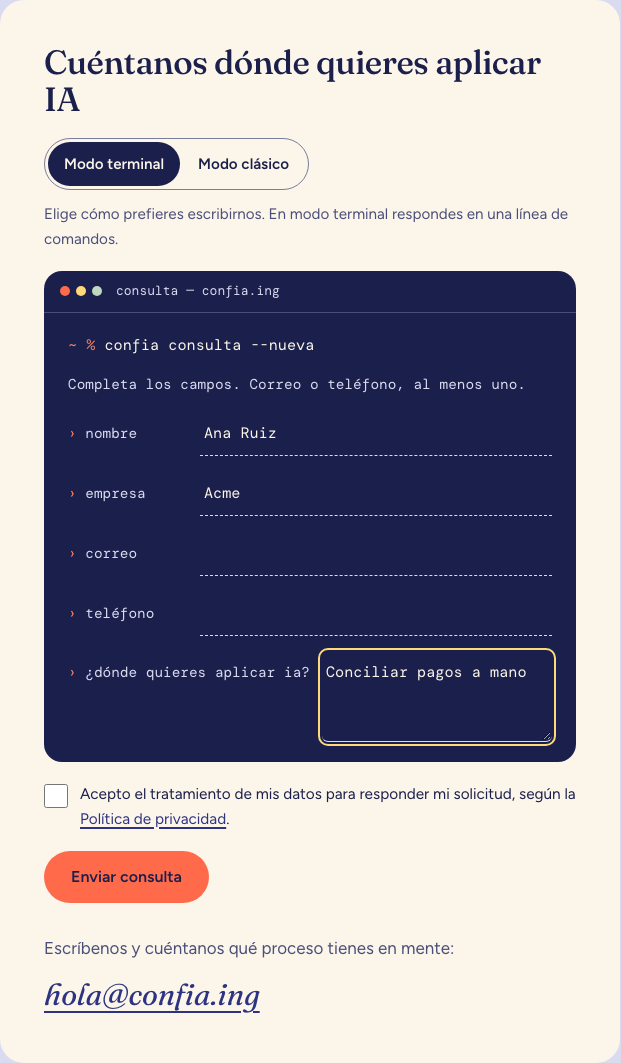
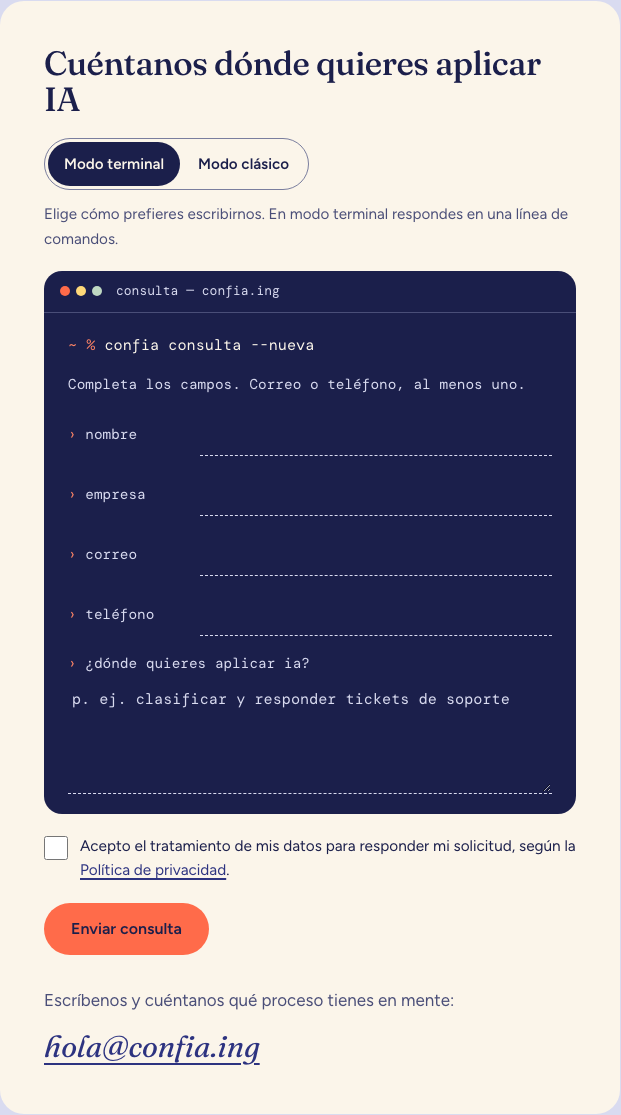
Título del cierre por frases y pregunta abierta del modo terminal
- El título del cierre se parte por frases en cualquier ancho.
- En modo terminal, la pregunta abierta va sobre su respuesta y enseña
  los cuatro ejemplos escribiéndose, como en la maqueta.
- Evidencia de la consulta real de prueba en producción.

diff --git a/src/components/contact/form-fields.tsx b/src/components/contact/form-fields.tsx
@@ -6,6 +6,7 @@ import { cx } from "@/lib/cx";
 import { LiveJson } from "./live-json";
 import { TypedCommand } from "./typed-command";
 import { FIELD_ID, type FormValues } from "./use-contact-form";
+import { useTypedExamples } from "./use-typed-examples";
 
 type Labels = Dictionary["contact"];
 type TextField = "name" | "company" | "email" | "phone" | "message";
@@ -107,11 +108,15 @@ const TERMINAL_CONTROL =
   "placeholder:text-text-muted focus-visible:border-solid focus-visible:outline-2 focus-visible:outline-offset-2 " +
   "disabled:opacity-45 aria-invalid:border-solid aria-invalid:border-error";
 
-function TerminalRow({ name, label, error, children }: { name: TextField; label: string; error?: string; children: ReactNode }) {
+type TerminalRowProps = { name: TextField; label: string; error?: string; stacked?: boolean; children: ReactNode };
+
+/** Una línea de la terminal. `stacked`: la pregunta va encima de su respuesta, a todo el ancho. */
+function TerminalRow({ name, label, error, stacked = false, children }: TerminalRowProps) {
   return (
-    <div>
-      <div className="grid items-baseline gap-x-3 gap-y-1 sm:grid-cols-[minmax(7.5rem,auto)_1fr]">
-        <label htmlFor={FIELD_ID[name]} className="font-mono text-[0.9rem] text-text-muted lowercase">
+    <div data-term-row data-stacked={stacked ? "" : undefined}>
+      <div className={cx("grid items-baseline gap-x-3 gap-y-1", !stacked && "sm:grid-cols-[minmax(7.5rem,auto)_1fr]")}>
+        {/* Las etiquetas cortas van en minúscula, como en una terminal; la pregunta, tal como se escribe («IA» nunca en minúscula). */}
+        <label htmlFor={FIELD_ID[name]} className={cx("font-mono text-[0.9rem] text-text-muted", !stacked && "lowercase")}>
           <span aria-hidden="true" className="text-emphasis">
             ›{" "}
           </span>
@@ -129,6 +134,7 @@ function TerminalRow({ name, label, error, children }: { name: TextField; label:
 }
 
 export function TerminalFields({ labels, values, errors, disabled, onChange }: FieldsProps) {
+  const examples = useTypedExamples<HTMLTextAreaElement>(labels.examples, labels.examplePrefix);
   const control = (name: TextField) => {
     const error = errorText(labels, errors[name]);
     const described = [describedBy(name, errors), error ? errorId(name) : null].filter(Boolean).join(" ") || undefined;
@@ -142,9 +148,15 @@ export function TerminalFields({ labels, values, errors, disabled, onChange }: F
       className: cx(TERMINAL_CONTROL, name === "message" && "resize-y"),
     };
     return (
-      <TerminalRow key={name} name={name} label={labels.fields[name]} error={error}>
+      <TerminalRow key={name} name={name} label={labels.fields[name]} error={error} stacked={name === "message"}>
         {name === "message" ? (
-          <textarea {...shared} rows={3} placeholder={labels.examples[0]} onChange={(event) => onChange(name, event.target.value)} />
+          <textarea
+            {...shared}
+            ref={examples.target}
+            rows={4}
+            placeholder={examples.placeholder}
+            onChange={(event) => onChange(name, event.target.value)}
+          />
         ) : (
           <input {...shared} {...INPUT[name]} onChange={(event) => onChange(name, event.target.value)} />
         )}

diff --git a/tests/integration/contact-form.test.tsx b/tests/integration/contact-form.test.tsx
@@ -517,3 +517,61 @@ describe("procedencia de la visita en la consulta", () => {
     expect(body).toMatchObject({ name: "Ana", email: "ana@empresa.com" });
   });
 });
+
+// contact-form · Detalles del modo terminal: la pregunta va sobre su respuesta y enseña ejemplos
+describe("pregunta abierta del modo terminal", () => {
+  it("la pregunta y su respuesta no comparten fila", () => {
+    const { t, field } = setup("terminal");
+    const row = field("message").closest("[data-term-row]")!;
+    expect(row).toHaveAttribute("data-stacked");
+    // La pregunta se lee tal como está escrita: «IA» no se pasa a minúscula.
+    expect(row.querySelector("label")!.className).not.toMatch(/\blowercase\b/);
+    expect(field("name").closest("[data-term-row]")!.querySelector("label")!.className).toMatch(/\blowercase\b/);
+    expect(screen.getByText(t.fields.message, { exact: false }).closest("[data-term-row]")).toBe(row);
+    // Los campos cortos sí van en una fila con su etiqueta.
+    expect(field("name").closest("[data-term-row]")).not.toHaveAttribute("data-stacked");
+  });
+
+  it("sin animación (movimiento reducido, o sin observador) muestra el primer ejemplo completo", () => {
+    const { t, field } = setup("terminal");
+    expect(field("message")).toHaveAttribute("placeholder", `${t.examplePrefix} ${t.examples[0]}`);
+  });
+
+  it("al entrar en pantalla va escribiendo los cuatro ejemplos, uno tras otro, y vuelve a empezar", async () => {
+    vi.useFakeTimers();
+    let intersect: IntersectionObserverCallback = () => {};
+    vi.stubGlobal(
+      "IntersectionObserver",
+      class {
+        constructor(callback: IntersectionObserverCallback) {
+          intersect = callback;
+        }
+        observe() {}
+        disconnect() {}
+      },
+    );
+    try {
+      const { t, field } = setup("terminal");
+      const full = (index: number) => `${t.examplePrefix} ${t.examples[index]}`;
+      act(() => intersect([{ isIntersecting: true } as IntersectionObserverEntry], {} as IntersectionObserver));
+      // A medias, con el cursor.
+      await act(() => vi.advanceTimersByTimeAsync(42 * 12));
+      const partial = field("message").getAttribute("placeholder")!;
+      expect(partial.endsWith("▌")).toBe(true);
+      expect(full(0).startsWith(partial.slice(0, -1))).toBe(true);
+      expect(partial.length).toBeLessThan(full(0).length);
+      // Completo, sin cursor.
+      await act(() => vi.advanceTimersByTimeAsync(42 * full(0).length));
+      expect(field("message")).toHaveAttribute("placeholder", full(0));
+      const seen = new Set([full(0)]);
+      for (let step = 0; step < 6; step += 1) {
+        await act(() => vi.advanceTimersByTimeAsync(2600 + 42 * 70));
+        seen.add(field("message").getAttribute("placeholder")!);
+      }
+      for (const index of [0, 1, 2, 3]) expect(seen.has(full(index)), full(index)).toBe(true);
+    } finally {
+      vi.useRealTimers();
+      vi.unstubAllGlobals();
+    }
+  });
+});

diff --git a/src/components/sections/closing.tsx b/src/components/sections/closing.tsx
@@ -1,3 +1,4 @@
+import { Fragment } from "react";
 import { ContactForm } from "@/components/contact/contact-form";
 import { ContactActions } from "@/components/sections/contact-actions";
 import { SceneSlot } from "@/components/journey/scene/scene-slot";
@@ -16,6 +17,9 @@ import { publicEnv } from "@/lib/public-env";
 
 type ClosingProps = { home: Dictionary["home"]; agenda: Dictionary["agenda"]; contact: Dictionary["contact"]; locale: Locale };
 
+// Corte entre frases: tras un punto seguido de espacio.
+const SENTENCE_BREAK = /(?<=\.)\s+/;
+
 const BLOCK_TITLE = "font-display text-[clamp(1.6rem,2.6vw,2.1rem)] leading-[1.1] font-medium tracking-[-0.015em]";
 // Destinos de ancla. La cabecera ya la descuenta scroll-padding-top (globals.css);
 // esto solo añade un pequeño respiro sobre la tarjeta.
@@ -27,9 +31,18 @@ export function Closing({ home, agenda, contact, locale }: ClosingProps) {
     <Section labelledBy="closing-title" theme="calm" className="mb-[clamp(8px,1.6vw,24px)] pb-[clamp(64px,8vw,120px)]">
       {/* El final del camino: completo, con lo andado marcado. */}
       <SceneSlot kind="closing" className="relative -mx-(--gutter) -mt-[clamp(40px,6vw,90px)] h-[clamp(230px,34vw,440px)]" />
-      <div className="mt-[clamp(8px,2vw,28px)] max-w-[1000px]">
-        <h2 id="closing-title" className={cx(DISPLAY, "text-[clamp(2.4rem,6.6vw,5.4rem)]")}>
-          <Emphasized text={closing.title} tone="plain" />
+      <div className="mt-[clamp(8px,2vw,28px)]">
+        {/* Cada frase es un bloque: el título se parte por frases en cualquier ancho, y en
+            pantallas de ordenador cada una cabe en su línea. */}
+        <h2 id="closing-title" className={cx(DISPLAY, "text-[clamp(2.2rem,4.9vw,4.5rem)]")}>
+          {closing.title.split(SENTENCE_BREAK).map((sentence, index) => (
+            <Fragment key={sentence}>
+              {index > 0 ? " " : null}
+              <span className="block text-balance">
+                <Emphasized text={sentence} tone="plain" />
+              </span>
+            </Fragment>
+          ))}
         </h2>
         <div className="mt-8.5">
           <ContactActions actions={actions} agenda={agenda} />

diff --git a/src/components/contact/use-typed-examples.ts b/src/components/contact/use-typed-examples.ts
@@ -1,0 +1,58 @@
+import { useEffect, useRef, useState } from "react";
+
+const CHAR_MS = 42;
+const PAUSE_MS = 2600;
+const CURSOR = "▌";
+
+/**
+ * Texto de ejemplo que se va «tecleando» dentro de un campo, un ejemplo tras otro.
+ * Empieza cuando el campo entra en pantalla. Con movimiento reducido, sin
+ * IntersectionObserver o en el servidor, devuelve el primer ejemplo completo y fijo.
+ * Es solo una sugerencia visual: el campo tiene su etiqueta y no depende de esto.
+ */
+export function useTypedExamples<T extends HTMLElement>(examples: readonly string[], prefix: string) {
+  const target = useRef<T>(null);
+  const texts = examples.map((example) => `${prefix} ${example}`);
+  const first = texts[0] ?? "";
+  const [shown, setShown] = useState(first);
+  const key = texts.join("\n");
+
+  useEffect(() => {
+    const node = target.current;
+    const list = key.split("\n");
+    const reduced = typeof window.matchMedia === "function" && window.matchMedia("(prefers-reduced-motion: reduce)").matches;
+    if (!node || reduced || typeof IntersectionObserver === "undefined" || list.length === 0) return;
+
+    let timer = 0;
+    let stopped = false;
+    const run = (index: number) => {
+      const text = list[index % list.length]!;
+      let length = 0;
+      const step = () => {
+        if (stopped) return;
+        setShown(text.slice(0, length) + (length < text.length ? CURSOR : ""));
+        if (length < text.length) {
+          length += 1;
+          timer = window.setTimeout(step, CHAR_MS);
+        } else timer = window.setTimeout(() => run(index + 1), PAUSE_MS);
+      };
+      step();
+    };
+    const observer = new IntersectionObserver(
+      (entries) => {
+        if (!entries.some((entry) => entry.isIntersecting)) return;
+        observer.disconnect();
+        run(0);
+      },
+      { threshold: 0.25 },
+    );
+    observer.observe(node);
+    return () => {
+      stopped = true;
+      observer.disconnect();
+      window.clearTimeout(timer);
+    };
+  }, [key]);
+
+  return { target, placeholder: shown };
+}

diff --git a/tests/e2e/contact.spec.ts b/tests/e2e/contact.spec.ts
@@ -172,3 +172,31 @@ for (const viewport of [
     });
   }
 }
+
+// contact-form · Modo terminal: la pregunta abierta va sobre su respuesta, con ejemplos que se escriben solos
+test("terminal: la pregunta abierta está encima de su respuesta y los ejemplos van cambiando", async ({ page }) => {
+  await page.setViewportSize({ width: 1280, height: 900 });
+  const t = await open(page, "es", "terminal");
+  const area = field(page, t, "message");
+  await area.scrollIntoViewIfNeeded();
+  const label = card(page).locator(`label[for="${await area.getAttribute("id")}"]`);
+  const [labelBox, areaBox] = [(await label.boundingBox())!, (await area.boundingBox())!];
+  expect(labelBox.y + labelBox.height).toBeLessThanOrEqual(areaBox.y + 1);
+  expect(areaBox.width).toBeGreaterThan(400);
+
+  const full = t.examples.map((example) => `${t.examplePrefix} ${example}`);
+  await expect.poll(() => area.getAttribute("placeholder"), { timeout: 15_000 }).toBe(full[0]);
+  await expect.poll(() => area.getAttribute("placeholder"), { timeout: 15_000 }).toBe(full[1]);
+});
+
+test.describe("con movimiento reducido", () => {
+  test.use({ reducedMotion: "reduce" });
+  test("terminal: el ejemplo de la pregunta abierta está fijo", async ({ page }) => {
+    const t = await open(page, "es", "terminal");
+    const area = field(page, t, "message");
+    await area.scrollIntoViewIfNeeded();
+    await page.waitForTimeout(1200);
+    await expect(area).toHaveAttribute("placeholder", `${t.examplePrefix} ${t.examples[0]}`);
+  });
+});
+

diff --git a/tests/e2e/home.spec.ts b/tests/e2e/home.spec.ts
@@ -304,3 +304,24 @@ for (const mode of ["completa", "ligera"] as const) test(`LCP < 2,5 s y CLS < 0,
   expect(metrics.cls).toBeLessThan(0.1);
 });
 
+// home-page · Cierre: el título se parte por frases, igual en cualquier ancho
+for (const width of [375, 768, 1280, 1440, 1920]) {
+  test(`a ${width} px el título del cierre va frase por frase y no se desborda`, async ({ page }) => {
+    await page.setViewportSize({ width, height: 900 });
+    await page.goto("/es");
+    await page.evaluate(() => document.fonts.ready);
+    const lines = await page.locator("#closing-title > span").evaluateAll((spans) =>
+      spans.map((span) => {
+        const box = span.getBoundingClientRect();
+        return { lines: Math.round(box.height / parseFloat(getComputedStyle(span).lineHeight)), right: box.right, top: box.top };
+      }),
+    );
+    expect(lines).toHaveLength(2);
+    expect(lines[1]!.top).toBeGreaterThan(lines[0]!.top);
+    // En pantallas de ordenador, cada frase cabe en una línea.
+    if (width >= 1280) expect(lines.map((line) => line.lines)).toEqual([1, 1]);
+    for (const line of lines) expect(line.right).toBeLessThanOrEqual(width);
+    expect(await page.evaluate(() => document.documentElement.scrollWidth - document.documentElement.clientWidth)).toBeLessThanOrEqual(0);
+  });
+}
+

diff --git a/tests/integration/home-sections.test.tsx b/tests/integration/home-sections.test.tsx
@@ -181,6 +181,10 @@ describe.each(LOCALES)("home en %s", (locale) => {
 
     const view = render(<Closing home={home} agenda={dictionary.agenda} contact={dictionary.contact} locale="es" />);
     const region = screen.getByRole("region", { name: stripEmphasis(home.closing.title) });
+    // Cada frase del título es un bloque: se parte por frases en cualquier ancho, no donde caiga.
+    const sentences = [...region.querySelectorAll("#closing-title > span")].map((span) => span.textContent);
+    expect(sentences).toEqual(stripEmphasis(home.closing.title).split(/(?<=\.)\s+/));
+    expect(sentences).toHaveLength(2);
     expect(region).toHaveAttribute("data-band", "calm");
     const actions = within(region).getAllByRole("link").slice(0, 2);
     expect(actions.map((link) => [link.getAttribute("href"), link.textContent])).toEqual(heroLinks);

diff --git a/src/i18n/dictionaries/en.ts b/src/i18n/dictionaries/en.ts
@@ -82,6 +82,7 @@ export const en: Dictionary = {
       message: "Where do you want to apply AI?",
     },
     contactHint: "Email or phone, at least one.",
+    examplePrefix: "e.g.",
     examples: [
       "sort and answer support tickets",
       "reconcile invoices with the accounting system",

diff --git a/src/i18n/dictionaries/es.ts b/src/i18n/dictionaries/es.ts
@@ -81,6 +81,7 @@ export const es = {
       message: "¿Dónde quieres aplicar IA?",
     },
     contactHint: "Correo o teléfono, al menos uno.",
+    examplePrefix: "p. ej.",
     examples: [
       "clasificar y responder tickets de soporte",
       "conciliar facturas con el sistema contable",

diff --git a/openspec/changes/l10-lanzamiento/tasks.md b/openspec/changes/l10-lanzamiento/tasks.md
@@ -23,7 +23,7 @@ Las tareas marcadas **[orden]** ejecutan algo fuera de esta máquina: cada una m
 - [x] 3.2 `npm run release` con el entorno de producción cargado desde `.env.prod` sin mostrarlo. Verificación: comprobación previa y build en verde.
 - [x] 3.3 **[orden]** `npx wrangler deploy` a la dirección `workers.dev`. Verificación: `verify-production` en verde contra esa dirección.
 - [x] 3.4 **[orden]** Adjuntar `confia.ing` y volver a desplegar. Verificación: `verify-production` en verde contra `https://confia.ing`.
-- [ ] 3.5 **[orden]** Consulta real de prueba y apertura de la agenda en producción, en ES y EN (Flujo B real; Flujo A real). Verificación: confirmación vista, fila en la base, aviso recibido por el fundador, calendario cargado sin infracciones.
+- [x] 3.5 **[orden]** Consulta real de prueba y apertura de la agenda en producción, en ES y EN (Flujo B real; Flujo A real). Verificación: confirmación vista, fila en la base, aviso recibido por el fundador, calendario cargado sin infracciones.
 - [ ] 3.6 **[orden]** Borrar de producción las filas de prueba. Verificación: cuentas antes y después anotadas aquí.
 - [ ] 3.7 Comprobar que el disparo diario está programado; al día siguiente, el registro del latido. Verificación: anotado aquí, o dicho que queda pendiente.
 
@@ -127,6 +127,19 @@ Corregido de paso: `release` buscaba la clave pública en los scripts del navega
 
 - `http://confia.ing` respondía 200 sin redirigir a HTTPS: la zona no tiene activado «Always Use HTTPS». Corregido en el Worker: redirige con 301 cuando Cloudflare indica que el visitante llegó por HTTP (cabecera `cf-visitor`). Un primer intento, que miraba la dirección de la petición, provocaba un bucle en el preview local, que reescribe el host; lo detectó `e2e:preview`. **Pendiente de redesplegar.** Conviene además activar «Always Use HTTPS» en el panel.
 - `www.confia.ing` no existe en el DNS. Queda para la v1.1 decidir si redirige al dominio.
+
+**Redespliegue con la redirección.** `http://confia.ing/es` responde 301 a HTTPS conservando ruta y parámetros; `verify:site` 21 de 21.
+
+**Consulta real de prueba (3.5).** El primer aviso del fundador no dejó rastro: 0 filas y ningún `POST /api/contact` en nueve minutos de escucha. Tras su segundo envío, `contact_requests` tiene **1 fila**: 2026-11-16 15:43 UTC, idioma `es`, estado `new`, versión del consentimiento `2026-11-borrador`. Turnstile real, guardado y esquema funcionan de punta a punta. El fundador reservó además una reunión real en la agenda.
+
+No se registraron eventos de analítica de esa visita (ni vista de página ni formulario ni reunión): lo esperable si su navegador envía «No rastrear» o bloquea la petición. Sin confirmar cuál. **Pendiente de confirmar por el fundador:** que el aviso llegó a su buzón.
+
+**Dos mejoras pedidas por el fundador tras ver el sitio.**
+
+- *Título del cierre:* en ordenador se partía en tres líneas («…Hagamos que / la IA trabaje con él»). Era fiel a la maqueta, pero el fundador lo quiere por frases: ahora cada frase es un bloque, y desde 1280 px cada una cabe en su línea. E2E a 375, 768, 1280, 1440 y 1920 px.
+- *Modo terminal:* la pregunta abierta compartía fila con su respuesta y solo mostraba un ejemplo fijo. Ahora va encima, a todo el ancho, y los cuatro ejemplos se escriben solos uno tras otro, como en la maqueta; con movimiento reducido queda el primero, fijo. La pregunta ya no se pasa a minúsculas («IA»). Era una omisión mía en L5 respecto a la maqueta.
+
+Desviación de TDD: las pruebas de estas dos mejoras se escribieron antes que el código, pero no las ejecuté en rojo por separado.
 
 Estado: sitio en vivo en `https://confia.ing`. Falta redesplegar con la redirección, la consulta real de prueba y la subida a GitHub.
 
